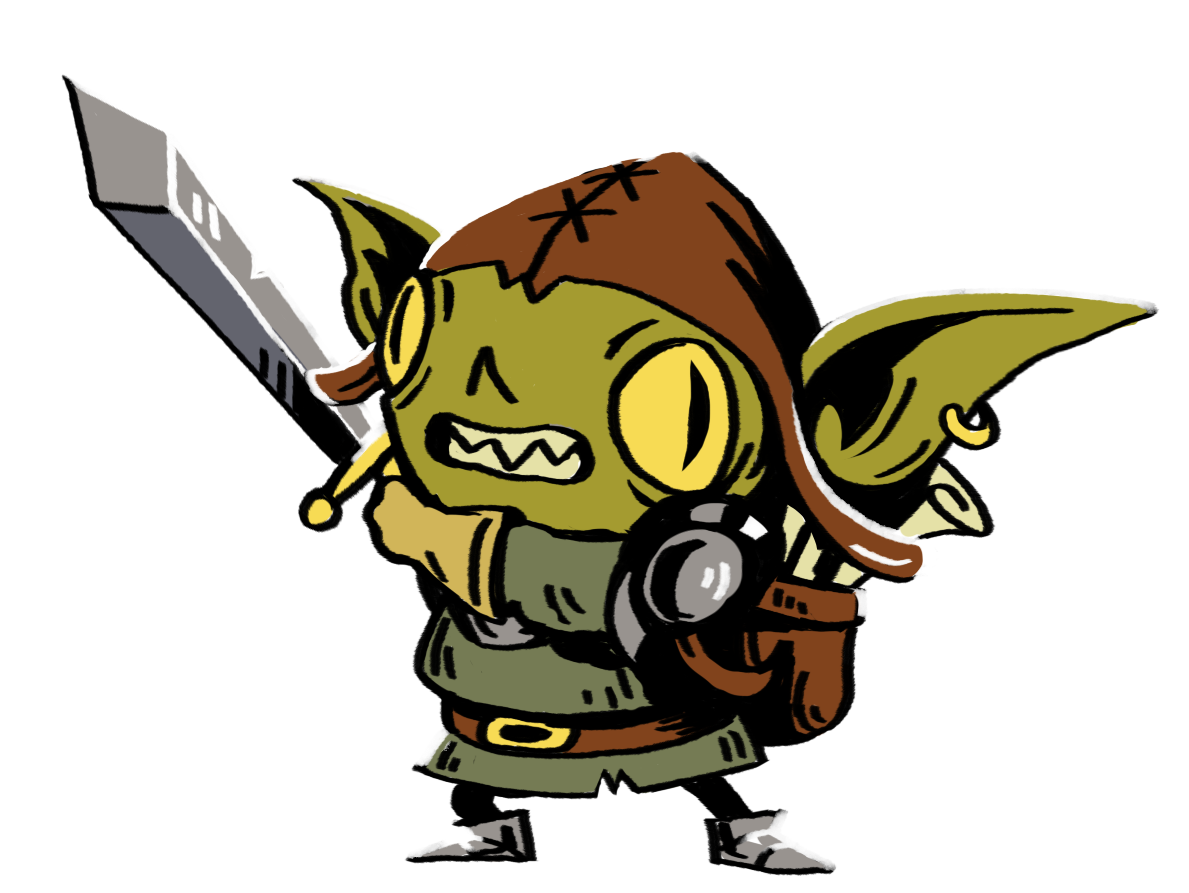
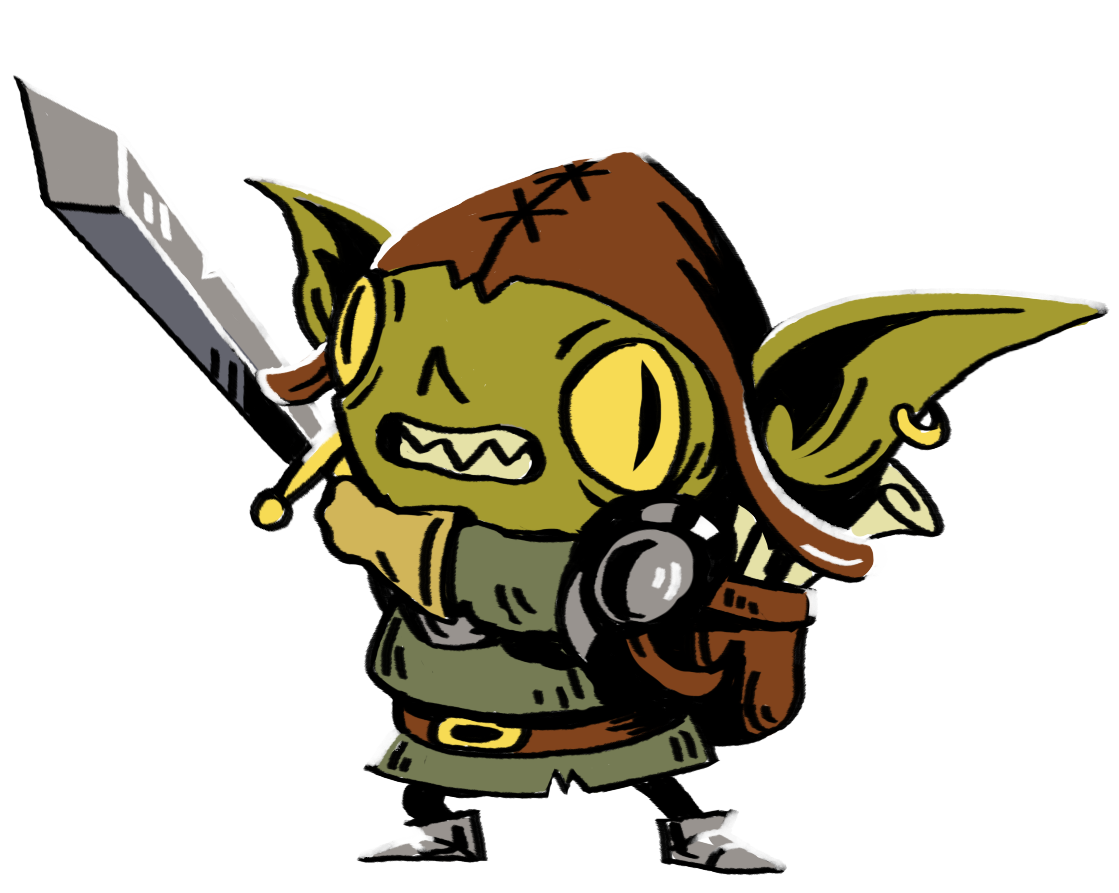
Fixed player1 sprite

Changed region(s): [[0.0, 0.0907, 1.0, 0.9675], [0.7596, 0.3326, 0.8508, 0.3931]]

diff --git a/Assets/Scripts/Player/Weapons/Sword.cs b/Assets/Scripts/Player/Weapons/Sword.cs
@@ -19,6 +19,8 @@ public class Sword : Weapon
     [SerializeField] Transform swordPivot;
 
     [SerializeField] Chain chain;
+    [SerializeField] PlayerInputData playerInputData;
+    [SerializeField] SpriteRenderer spriteRenderer;
     [SerializeField] Animator animator;
 
     List<Collider2D> enemiesInsideTrigger = new List<Collider2D>();
@@ -35,11 +37,11 @@ public class Sword : Weapon
     {
         ChainRotating();
         
-        if (Input.GetKeyDown(KeyCode.D)) // Should be changed
+        if (playerInputData.movementInput.x > 0)
         {
             ChangeColliderAngle(0);
         }
-        if (Input.GetKeyDown(KeyCode.A))
+        else if (playerInputData.movementInput.x < 0)
         {
             ChangeColliderAngle(180);
         }
@@ -108,6 +110,14 @@ public class Sword : Weapon
     void ChangeColliderAngle(float angle)
     {
         swordPivot.transform.rotation = Quaternion.Euler(0, 0, angle);
+        if (angle > 0)
+        {
+            spriteRenderer.flipX = false;
+        }
+        else
+        {
+            spriteRenderer.flipX = true;
+        }
     }
 
     public override void AttackPress()
